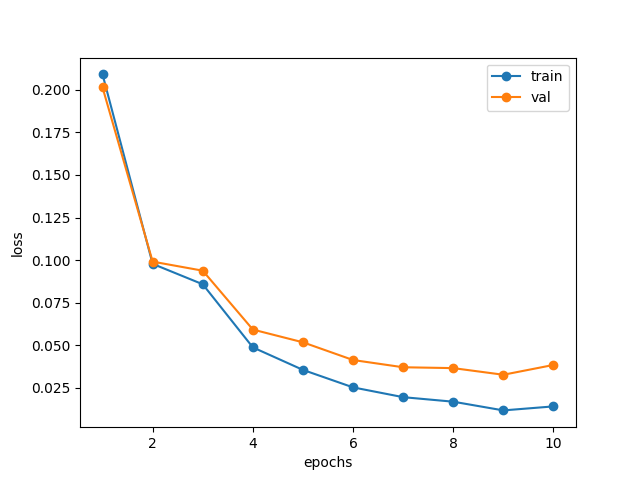
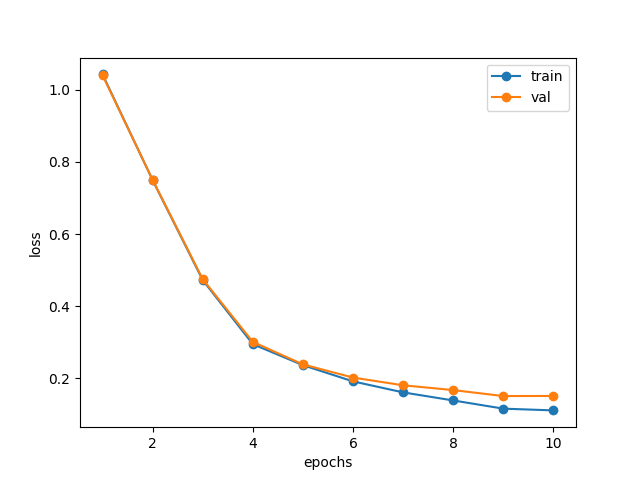
add cross-val

diff --git a/Nakka0925/Cov_test.py b/Nakka0925/Cov_test.py
@@ -1,4 +1,5 @@
 # coding: utf-8
+from imghdr import tests
 import sys, os
 sys.path.append(os.pardir)  # 親ディレクトリのファイルをインポートするための設定
 import numpy as np
@@ -9,6 +10,7 @@ from datasets import data_gain
 from simple_convnet import SimpleConvNet
 from common.trainer import Trainer
 
+
 file_list, label_list = data_gain()
 
 file_list = np.array(file_list)
@@ -18,7 +20,10 @@ file_list = file_list.reshape(7550, 1, 192, 192)
 #0.0 ~ 1.0 に正規化
 file_list = [file.astype(float)/255.0 for file in file_list]
 
-train_x, test_x, train_y, test_y = train_test_split(file_list, label_list, test_size=0.2)
+
+train_x, test_x, train_y, test_y = train_test_split(file_list, label_list, test_size=0.2,
+                                                    stratify = label_list)
+
 
 train_x = np.array(train_x)
 test_x = np.array(test_x)
@@ -27,7 +32,8 @@ train_y = np.array(train_y)
 test_y = np.array(test_y)
 
 #層化抽出法を用いたK-分割交差検証
-kf = StratifiedKFold(n_splits=5, shuffle=True)
+splits = 5
+kf = StratifiedKFold(n_splits=splits, shuffle=True)
 all_loss = []
 all_val_loss = []
 all_acc = []
@@ -40,17 +46,17 @@ use_dropout = True  # Dropoutなしのときの場合はFalseに
 dropout_ratio = 0.5
 # ====================================================
 
-network = SimpleConvNet(input_dim=(1,192,192), 
-                        conv_param = {'filter_num': 8, 'filter_size': 3, 'pad': 0, 'stride': 1},
-                        hidden_size=100, output_size=3, weight_init_std='Relu', use_dropout = use_dropout,
-                        dropout_ration = dropout_ratio)
-
 for train_index, val_index in kf.split(train_x, train_y):              
     
     train_data  = train_x[train_index]
     train_label = train_y[train_index]
     val_data    = train_x[val_index]
     val_label   = train_y[val_index]
+
+    network = SimpleConvNet(input_dim=(1,192,192), 
+                        conv_param = {'filter_num': 8, 'filter_size': 3, 'pad': 0, 'stride': 1},
+                        hidden_size=64, output_size=3, weight_init_std='Relu', use_dropout = use_dropout,
+                        dropout_ration = dropout_ratio)
     
     trainer = Trainer(network, train_data, train_label, val_data, val_label, test_x, test_y,
                   epochs=max_epochs, batch_size = 128,
@@ -74,7 +80,8 @@ ave_all_acc = np.mean(all_acc, axis = 0)
 ave_all_val_acc = np.mean(all_val_acc, axis = 0)
 ave_all_loss = np.mean(all_loss, axis = 0)
 ave_all_val_loss = np.mean(all_val_loss, axis = 0)
-
+print(ave_all_acc)
+print(ave_all_loss)
 
 # パラメータの保存
 network.save_params("params.pkl")
